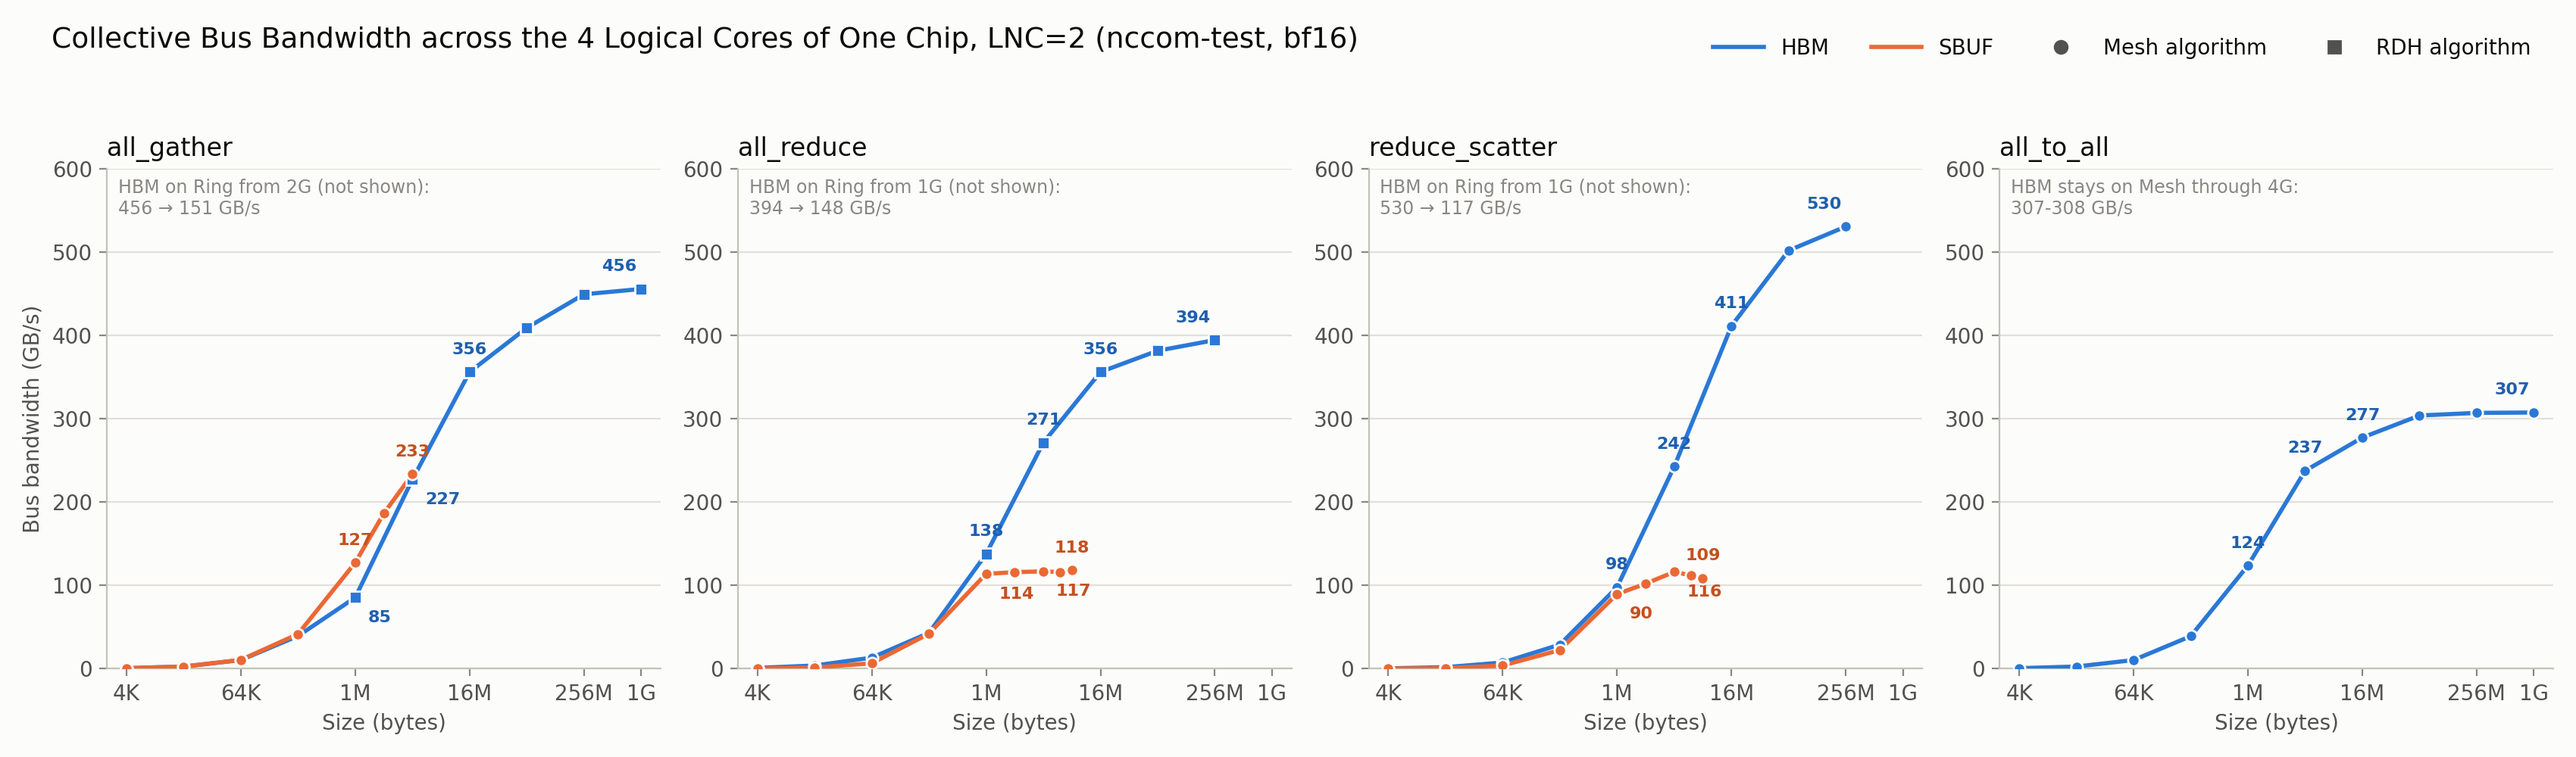
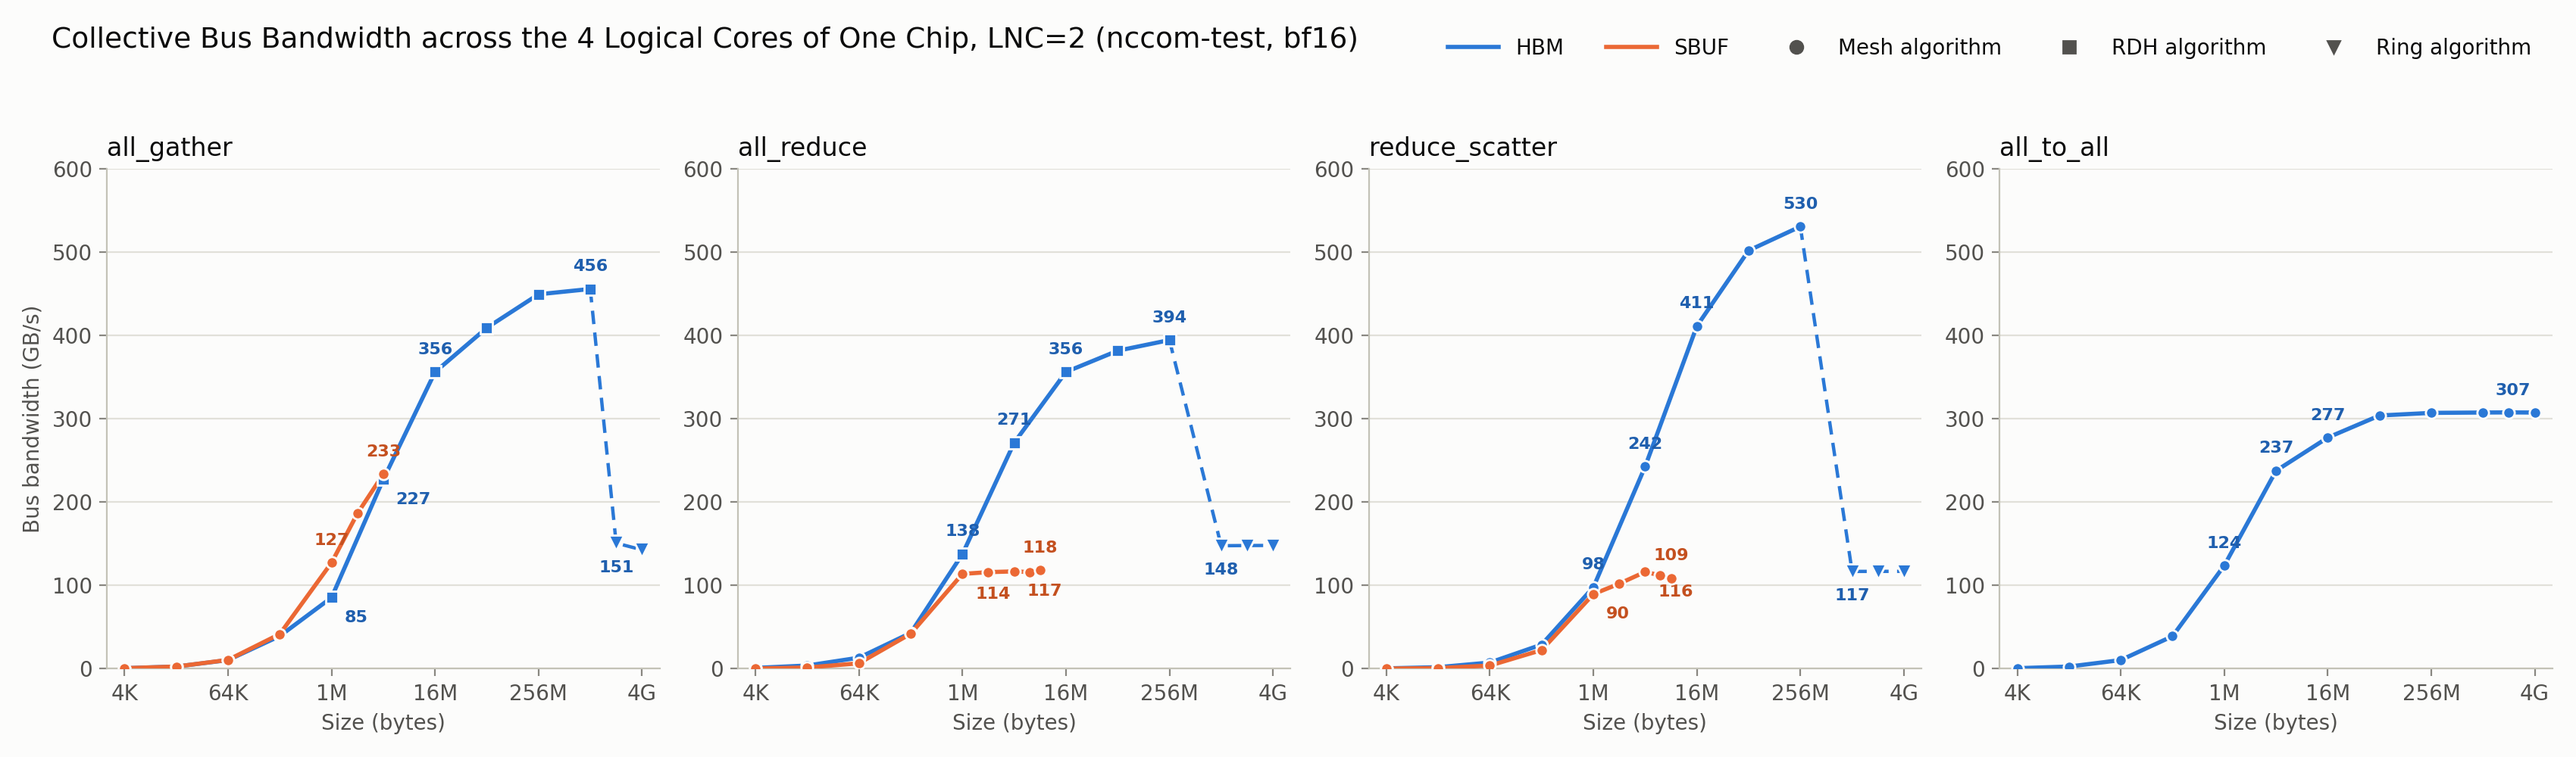
chore(ubenchX): show the Ring-algorithm drop in the intra-chip collectives plot
HBM back to 4 GiB; Ring points drawn as down-triangles on a dashed segment from the Mesh/RDH plateau,
with Ring in the algorithm legend; the per-panel "not shown" notes are gone.

Claude-Session: https://claude.ai/code/session_01C1GQhNeLA3GvWGMY7wb32e

diff --git a/ubenchX/trn3_intrachip_cc/plot.py b/ubenchX/trn3_intrachip_cc/plot.py
@@ -5,10 +5,9 @@
 nccom-test on one Trainium3 chip at LNC=2, 4 ranks = all 4 logical cores. One panel per op, busbw (GB/s) vs size.
 Color: HBM buffers vs SBUF buffers (--sb2sb; up to the mesh-algorithm limit, 4 MiB all_gather, 8 MiB all_reduce /
 reduce_scatter; all_to_all is HBM-only). Marker: the algorithm the library picked (nccom-test --show-algorithm).
-HBM is shown up to 1 GiB and only while the library stays on Mesh / RDH: the bandwidth plateau. Sizes where it
-switched to Ring (busbw drops ~3x) are left out and summarized in a note in the panel. Later CSVs replace earlier
-ones per (placement, op, buffer, size). Size convention (nccom-test): all_gather = output bytes, reduce_scatter =
-input bytes, all_reduce / all_to_all = buffer bytes per rank.
+HBM runs to 4 GiB; where the library switches to its Ring algorithm (1-2 GiB) busbw drops ~3x, drawn as a dashed
+segment into down-triangles. Later CSVs replace earlier ones per (placement, op, buffer, size). Size convention
+(nccom-test): all_gather = output bytes, reduce_scatter = input bytes, all_reduce / all_to_all = buffer bytes per rank.
 """
 import sys
 
@@ -23,12 +22,11 @@ from matplotlib.ticker import FixedLocator, NullLocator
 *csvs, out = sys.argv[1:]
 SURFACE, INK, INK2, MUTED, GRID, AXIS = "#fcfcfb", "#0b0b0b", "#52514e", "#898781", "#e1e0d9", "#c3c2b7"
 COLORS = {"HBM": ("#2a78d6", "#1f5fae"), "SBUF": ("#eb6834", "#c4501f")}
-MARKERS = {"Mesh": "o", "RDH": "s"}  # anything else (a future algorithm name) falls back to a diamond
+MARKERS = {"Mesh": "o", "RDH": "s", "Ring": "v"}  # anything else (a future algorithm name) falls back to a diamond
 PL = "lnc2_r4"  # 4 ranks: all 4 logical cores of the chip
 OPS = ["all_gather", "all_reduce", "reduce_scatter", "all_to_all"]
-MAX_BYTES = 1 << 30  # plateau view: HBM to 1 GiB
-LABEL_SIZES = [1 << 20, 4 << 20, 16 << 20]  # plus the last point of each line (the plateau)
-TICKS = [4 << 10, 64 << 10, 1 << 20, 16 << 20, 256 << 20, 1 << 30]
+LABEL_SIZES = [1 << 20, 4 << 20, 16 << 20]
+TICKS = [4 << 10, 64 << 10, 1 << 20, 16 << 20, 256 << 20, 4 << 30]
 
 
 def fmt_bytes(b):
@@ -40,8 +38,7 @@ def fmt_bytes(b):
 
 df = pd.concat([pd.read_csv(c) for c in csvs], ignore_index=True)
 df = df[df.placement == PL].drop_duplicates(["placement", "op", "buffer", "bytes"], keep="last")
-ring_all = df[df.algorithm == "Ring"]
-shown = df[(df.algorithm != "Ring") & (df.bytes <= MAX_BYTES)]
+shown = df
 
 plt.rcParams.update({"font.family": "DejaVu Sans", "font.size": 10})
 fig, axes = plt.subplots(1, 4, figsize=(17, 5.0), facecolor=SURFACE)
@@ -52,16 +49,26 @@ for ax, op in zip(axes, OPS):
         if d.empty:
             continue
         s = d.set_index("bytes").busbw_GBps
-        ax.plot(s.index, s, color=color, lw=2, zorder=3)
+        ring = d.algorithm.eq("Ring").to_numpy()
+        pre = s[~ring]  # Mesh / RDH: the plateau
+        ax.plot(pre.index, pre, color=color, lw=2, zorder=3)
+        if ring.any():  # the drop: dashed from the plateau end into the Ring points
+            drop = s[s.index >= pre.index[-1]] if len(pre) else s
+            ax.plot(drop.index, drop, color=color, lw=1.6, ls=(0, (4, 2.5)), zorder=3)
         for alg, g in d.groupby("algorithm"):
-            ax.plot(g.bytes, g.busbw_GBps, ls="none", marker=MARKERS.get(alg, "D"), ms=5.5, color=color,
-                    markeredgecolor=SURFACE, markeredgewidth=1, zorder=4)
+            ax.plot(g.bytes, g.busbw_GBps, ls="none", marker=MARKERS.get(alg, "D"), ms=7 if alg == "Ring" else 5.5,
+                    color=color, markeredgecolor=SURFACE, markeredgewidth=1, zorder=4)
         # labels from 20 GB/s (smaller values sit on the x axis); where both buffers have a point, the higher is
         # labeled above and the lower below-right
+        keys = set(LABEL_SIZES) | ({pre.index[-1]} if len(pre) else set())  # ... plus the plateau end
+        first_ring = s[ring].index[0] if ring.any() else None
+        keys |= {first_ring} if ring.any() else set()  # the drop: label only its first point
         other = shown[(shown.op == op) & (shown.buffer != buf)].set_index("bytes").busbw_GBps
-        for n in [n for n in s.index if (n in LABEL_SIZES or n == s.index[-1]) and s[n] >= 20]:
+        for n in [n for n in s.index if n in keys and s[n] >= 20]:
             up = n not in other.index or s[n] >= other[n]
-            if up and n == s.index[-1] and buf == "HBM":
+            if n == first_ring:
+                off, ha, va = (0, -8), "center", "top"  # below the marker, clear of the dashed drop
+            elif up and n == s.index[-1] and buf == "HBM":
                 off, ha, va = (-2, 7), "right", "bottom"  # last point: keep inside the axes
             elif up:
                 off, ha, va = (0, 7), "center", "bottom"
@@ -69,26 +76,12 @@ for ax, op in zip(axes, OPS):
                 off, ha, va = (6, -6), "left", "top"
             ax.annotate(f"{s[n]:,.0f}", (n, s[n]), xytext=off, textcoords="offset points", ha=ha, va=va,
                         color=tcolor, fontsize=8, fontweight="bold")
-    # what happens past the plateau (not drawn): the Ring switch, or no switch through the largest size run
-    r = ring_all[(ring_all.op == op) & (ring_all.buffer == "HBM")].sort_values("bytes")
-    hbm = df[(df.op == op) & (df.buffer == "HBM")].sort_values("bytes")
-    if not r.empty:
-        last = hbm[hbm.bytes < r.bytes.iloc[0]].iloc[-1]
-        note = (f"HBM on Ring from {fmt_bytes(r.bytes.iloc[0])} (not shown):\n"
-                f"{last.busbw_GBps:,.0f} → {r.busbw_GBps.iloc[0]:,.0f} GB/s")
-    elif not hbm.empty and hbm.bytes.max() > MAX_BYTES:
-        big = hbm[hbm.bytes > MAX_BYTES]
-        note = f"HBM stays on {'/'.join(big.algorithm.unique())} through {fmt_bytes(big.bytes.max())}:\n" \
-               f"{big.busbw_GBps.min():,.0f}-{big.busbw_GBps.max():,.0f} GB/s"
-    else:
-        note = ""
-    ax.text(0.02, 0.98, note, transform=ax.transAxes, ha="left", va="top", color=MUTED, fontsize=8.5)
     ax.set_title(op, loc="left", color=INK, fontsize=12)
     ax.set_xscale("log", base=2)
     ax.xaxis.set_major_locator(FixedLocator(TICKS))
     ax.xaxis.set_minor_locator(NullLocator())
     ax.set_xticklabels([fmt_bytes(b) for b in TICKS])
-    ax.set_xlim(shown.bytes.min() / 1.6, MAX_BYTES * 1.6)
+    ax.set_xlim(shown.bytes.min() / 1.6, shown.bytes.max() * 1.6)
     ax.set_ylim(0, 600)
     ax.set_xlabel("Size (bytes)", color=INK2)
     if op == OPS[0]:
